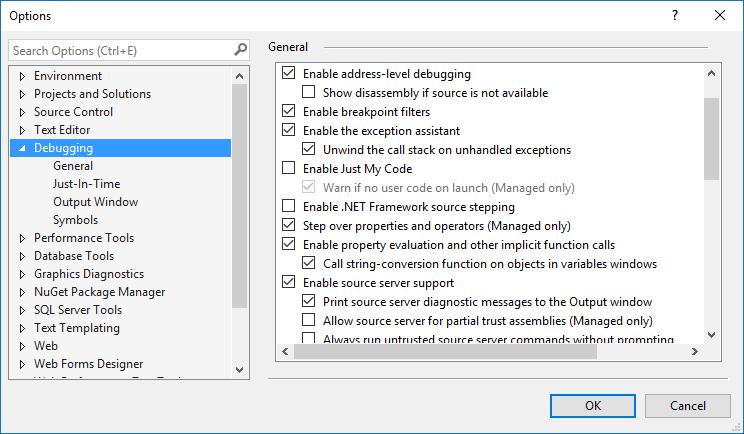
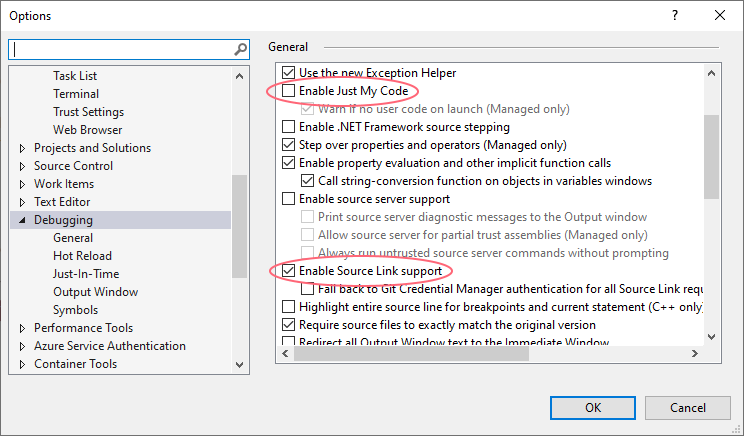
update serenity debug information

diff --git a/howto/how_to_debugging_with_serenity_sources.md b/howto/how_to_debugging_with_serenity_sources.md
@@ -1,90 +1,11 @@
-# How To: Debugging with Serenity Sources
+# How To: Debug into Serenity Sources
 
-Sometimes you might want to debug (or trace into) Serenity sources. There are two ways to do this.
+Serenity NuGet packages (since 5.0.49) already contain debug information embedded inside the DLL files (e.g. there are no pdb files, that info is embbedded inside the DLL) and are setup to use SourceLink which fetches the sources from GitHub.
 
+To enable source link support, just go to your Visual Studio options, and under Debugging -> General, check **Enable Source Link support**.
 
-### By Enabling Source Server Support
-
-Serenity NuGet packages already contains .pdb files debugging, which are modified to use GitHub as a symbol source by using excellent GitLink project:
-
-[https://github.com/GitTools/GitLink](https://github.com/GitTools/GitLink)
-
-> You don't need GitLink to debug, it's just a tool used by Serenity while publishing
-
-To enable source server support, just go to your Visual Studio options, and under Debugging -> General, click **Enable source server support**.
-
-![Enabling Source Server Support](https://raw.githubusercontent.com/GitTools/GitLink/develop/doc/images/visualstudio_enablesourceserversupport.png)
-
-You should also ***uncheck*** *Enable Just My Code*:
+You should also *uncheck* **Enable Just My Code**:
 
 ![Disable Just My Code](img/disable_just_my_code.png)
 
-Now put a breakpoint on OrderRepository -> MyListHandler -> ApplyFilters or some other code you like:
-
-![Breakpoint on Order Repository](img/breakpoint_on_order_repository.png)
-
-Launch application in debug mode, navigate to Orders page, and enjoy debugging:
-
-![Debugging List Request Handler](img/debugging_list_request_handler.png)
-
-
-### By Adding Serenity as a SubModule
-
-This option is only recommended for advanced users with a good knowledge of Git, Submodules and .NET in general. You'll also lose the ability to update Serenity and related files simply with NuGet.
-
-> I don't recommend this to novice users. If you do this and break your project, sorry but i can't help you.
-
-I assume you have a project named SereneSample, and have a GIT repository for it already.
-
-In GitExtensions, enter Repository -> SubModules -> Add submodule:
-
-![Add Serenity Submodule](img/add_serenity_submodule.png)
-
-Under Path to submodule enter:
-
-https://github.com/serenity-is/Serenity.git
-
-Enter *Serenity* as Local path.
-
-Then click *Add* to add Serenity as a submodule to your repository. Then close the submodules dialog, and return to Visual Studio.
-
-Expand your project references for *SereneSample.Web* and remove following references:
-
-```
-Serenity.Core
-Serenity.Data
-Serenity.Data.Entity
-Serenity.Services
-Serenity.Web
-```
-
-Right click your solution, click Add -> Existing Project and select Serenity.Core.csproj under Serenity folder.
-
-Repeat it for Serenity.Data, Serenity.Data.Entity, Serenity.Services and Serenity.Web.
-
-Right click your project references, click Add Reference -> Projects -> Solution and check all projects we added above, then click OK.
-
-Now build your solution. There should be no errors.
-
-Unload your project by right clicking it and clicking *Unload*. Then again right click project name and click *Edit*.
-
-Add *Import* statement below, after the last *Import Project* statement in your csproj (there should be 4 Import Project statements, 5 after including this one):
-
-```xml
-  <Import Project="$(SolutionDir)Serenity\tools\Submodule\Serenity.Submodule.Web.targets" />
-```
-
-Under *CompileSiteLess* include this:
-```xml
-<Exec Command="&quot;$(ProjectDir)tools\node\lessc.cmd&quot; 
- &quot;$(ProjectDir)..\..\Serenity\Serenity.Web\Style\serenity.less&quot; 
- &gt; &quot;$(ProjectDir)Content\serenity\serenity.css&quot;">
-</Exec>
-    ...
-```
-
-Save file and reload project.
-
-Now you can use Serenity as a submodule and debug normally.
-
-
+Now put a breakpoint on any code that calls Serenity code, then when the breakpoint is hit, use F11 etc. to debug into Serenity codes.
